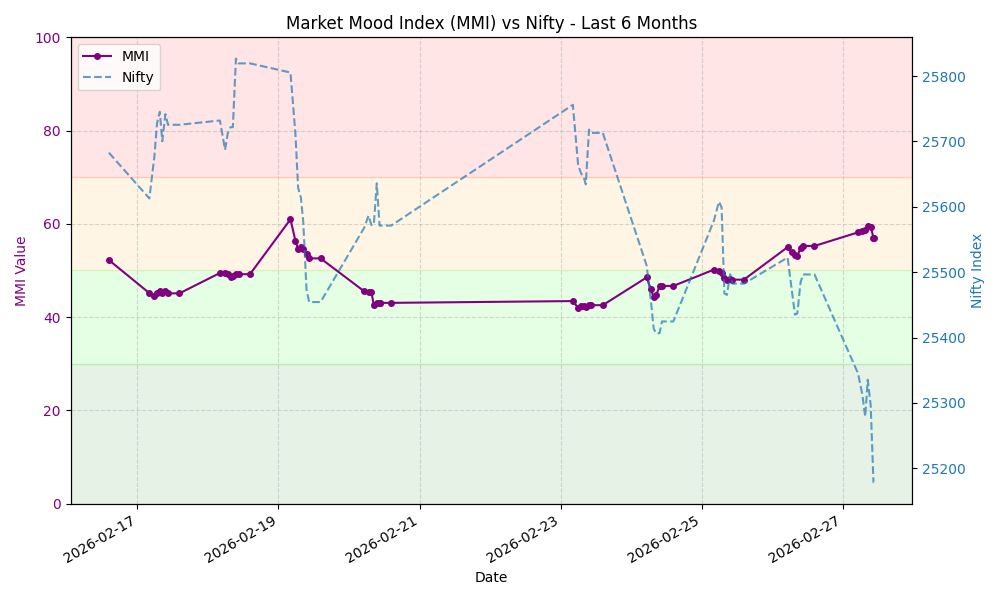
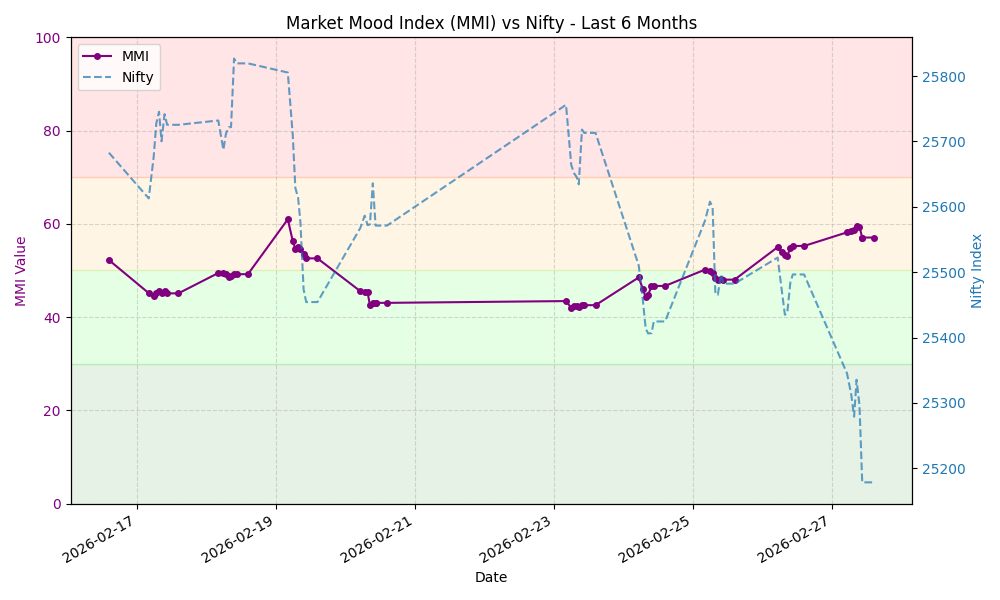
Update MMI data and chart

diff --git a/README.md b/README.md
@@ -8,7 +8,7 @@ This repository automatically fetches the MMI value, stores the history, and gen
 ## Latest MMI Value
 
 **57.06** - **Greed**
-<small>Last Updated: 2026-02-27 10:27 UTC</small>
+<small>Last Updated: 2026-02-27 14:20 UTC</small>
 
 ## MMI Trend (Last 30 Days)
 
